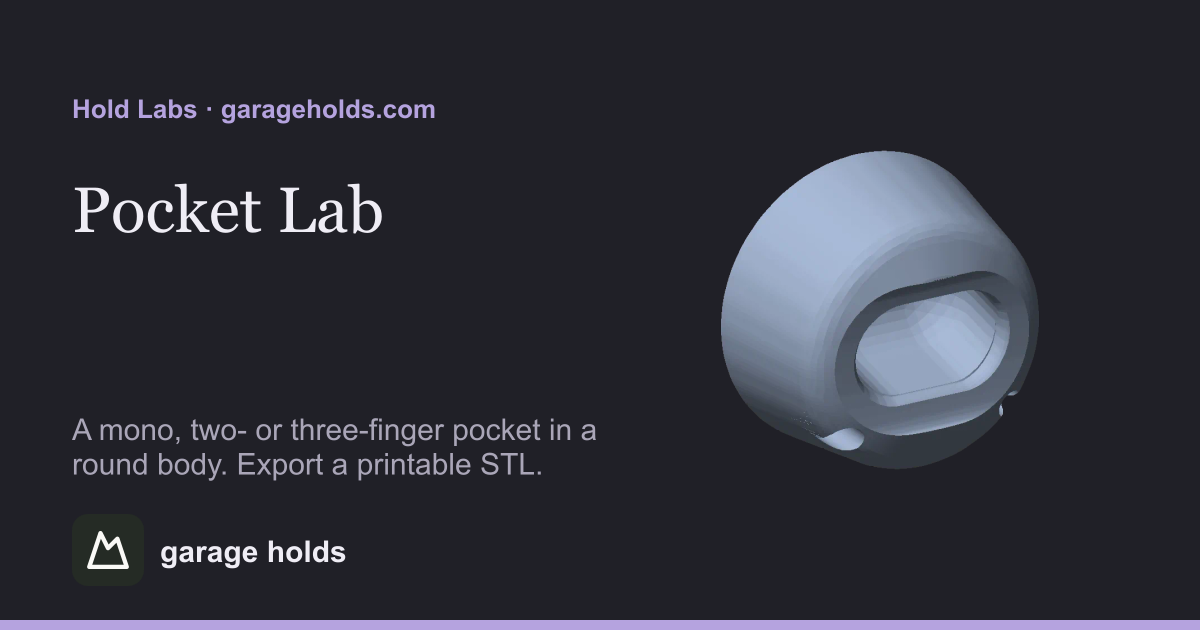
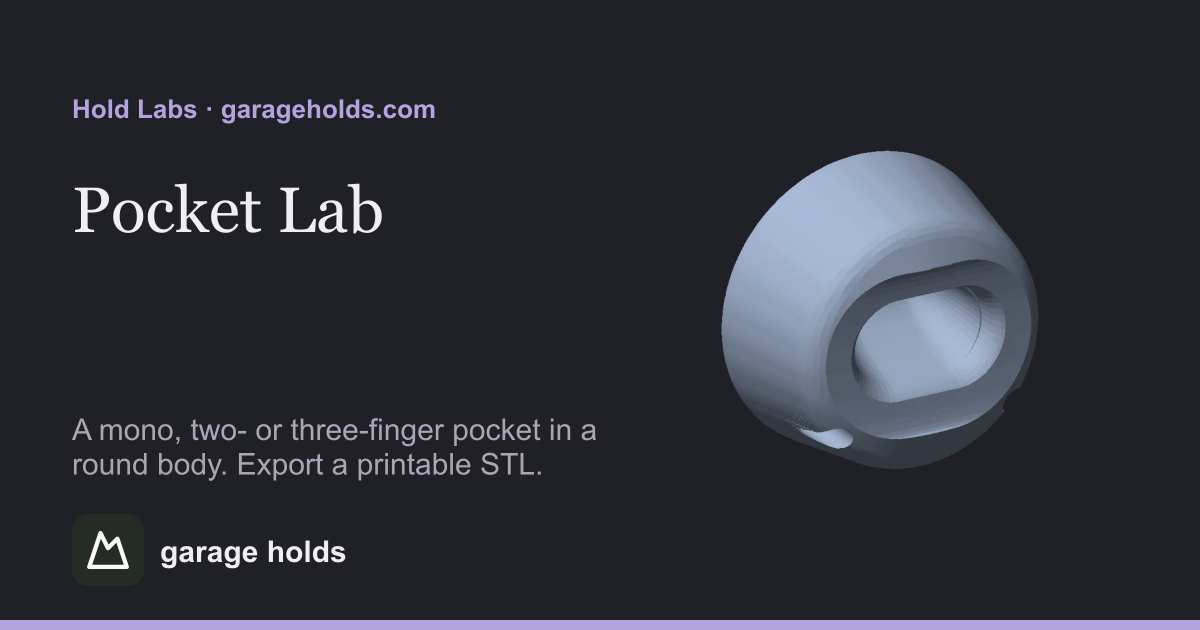
Pocket Lab: a scooped cavity, a lip built from the mouth, three screws on three fingers (RIL-61)
Riley's second test, with a drawing: the pocket's section should be a
smooth C, not a straight tunnel with a rounded end, the lip was still
sharp with a crease on its upper edge, and a three-finger pocket wants
three screws.

The cavity is now a rounded scoop: the stadium mouth narrows along a half
ellipse to a line at full depth, so the roof sweeps into the floor in one
curve (a pocket open to the wall stays a straight prism). The lip is built
from the one mouth outline, with every ring point moved to where the
tilted wall really is at its own height and drawn in by the scoop's
narrowing, read off the real surface; the crease came from rings sliced
at one height per ring while the surface fell away under them. The fit
check now uses the cutter's own section and shadow instead of formulas
for the old slot.

Lip rounding defaults to 12 mm (range 2–20) and the bodies grow to hold
it: 92 mm default, 76 mono, 120 × 92 three-finger with a third screw
below the pocket, 100 slopey, 124 × 74 rail.

Changed region(s): [[0.6783, 0.3921, 0.8325, 0.6032], [0.6475, 0.6333, 0.8017, 0.7238], [0.7708, 0.5127, 0.8633, 0.6333]]

diff --git a/tools/pocket-generator/geometry.py b/tools/pocket-generator/geometry.py
@@ -35,9 +35,11 @@ from tools.hold_mounting import (
 # strength ratings.
 FLOOR = 6.0
 MARGIN = 6.0
+# Odd arc counts put a vertex on each axis, so a mouth measures exactly
+# what was asked for across and up.
 QUALITY = {
-    "preview": dict(sphere=16, ring=72, arc=12, slabs=8),
-    "export": dict(sphere=32, ring=144, arc=24, slabs=12),
+    "preview": dict(sphere=16, ring=72, arc=13, slabs=8, scoop=10),
+    "export": dict(sphere=32, ring=144, arc=25, slabs=12, scoop=20),
 }
 LIMITS = {control["key"]: (control["min"], control["max"]) for control in CONTROLS}
 
@@ -158,10 +160,22 @@ def body(p, quality):
     return solid, s
 
 
+def scoop_inset(p, drop):
+    """How far the scoop's wall has moved in from the mouth outline at a
+    depth below the face: nothing for a pocket open to the wall, else the
+    half-ellipse that takes the stadium down to a line at full depth."""
+    if p.through or drop <= 0:
+        return 0.0
+    rr = min(p.opening_width, p.opening_height) / 2
+    return rr * (1 - math.sqrt(max(0.0, 1 - (drop / p.pocket_depth) ** 2)))
+
+
 def slot(p, depth, quality):
     """The pocket cavity, tilted by the floor angle about the mouth's centre
-    on the face plane: a stadium prism with a rounded bottom, or one that
-    runs on through the back when the pocket opens to the wall."""
+    on the face plane: a rounded scoop whose section is a half ellipse, the
+    stadium mouth narrowing to a line at full depth so the roof sweeps into
+    the floor in one curve, or a straight stadium prism on through the back
+    when the pocket opens to the wall."""
     q = QUALITY[quality]
     width, height = p.opening_width, p.opening_height
     rr = min(width, height) / 2
@@ -171,14 +185,13 @@ def slot(p, depth, quality):
         far = np.column_stack((outline, np.full(len(outline), -depth - 80)))
         cut = manifold.Manifold.hull_points(np.vstack((mouth, far)))
     else:
-        sphere = sphere_points(rr, q["sphere"])
-        ends = (
-            [(sx * (width / 2 - rr), 0) for sx in (-1, 1)]
-            if width >= height
-            else [(0, sy * (height / 2 - rr)) for sy in (-1, 1)]
-        )
-        deep = [sphere + (x, y, depth - p.pocket_depth + rr) for x, y in ends]
-        cut = manifold.Manifold.hull_points(np.vstack(deep + [mouth]))
+        rings = [mouth, np.column_stack((outline, np.full(len(outline), depth)))]
+        for psi in np.linspace(0, math.pi / 2, q["scoop"] + 1)[1:]:
+            inset = min(rr - 0.05, rr * (1 - math.cos(psi)))
+            ring = stadium(width - 2 * inset, height - 2 * inset, q["arc"])
+            z = depth - p.pocket_depth * math.sin(psi)
+            rings.append(np.column_stack((ring, np.full(len(ring), z))))
+        cut = manifold.Manifold.hull_points(np.vstack(rings))
     return (
         cut.translate((0, 0, -depth))
         .rotate((p.floor_angle, 0, 0))
@@ -203,22 +216,44 @@ def trumpet(p, solid, cut, depth, quality):
     convex, and their union leaves a rounded edge on the body."""
     q = QUALITY[quality]
     lip = min(p.lip_radius, lip_limit(p))
-    # Each ring starts from the tilted slot's own section at its height, so
-    # the fillet leaves the cavity wall tangentially wherever the floor
-    # angle has moved that wall; stacking one mouth outline straight down
-    # left a ridge where the two crossed.
+    rise = math.tan(math.radians(p.floor_angle))
+    # Every ring grows from the one mouth outline, where the tilted cavity
+    # meets the face plane. Below the face the wall is not where the mouth
+    # is: the floor angle moves it up the wall in proportion to the depth,
+    # and the scoop draws it in a little. Each ring point gets both
+    # corrections at its own height, read off the real surface, so the
+    # fillet leaves the wall tangentially all round and no ridge forms
+    # where a straight stack would have crossed the tilted wall.
     face = float(surface_height(solid, np.array([[0.0, 0.0]]), depth)[0])
+    mouth = largest(cut.slice(face))
+    # Each ring is the mouth polygon pushed along its own vertex normals, so
+    # every ring point keeps the mouth point it grew from. The outward
+    # normal is to the right of an anticlockwise outline; flip for the
+    # other winding.
+    edges = np.roll(mouth, -1, axis=0) - mouth
+    edge_normals = np.column_stack((edges[:, 1], -edges[:, 0]))
+    edge_normals /= np.linalg.norm(edge_normals, axis=1)[:, None]
+    normals = edge_normals + np.roll(edge_normals, 1, axis=0)
+    normals /= np.linalg.norm(normals, axis=1)[:, None]
+    if (
+        np.sum(
+            mouth[:, 0] * np.roll(mouth[:, 1], -1)
+            - np.roll(mouth[:, 0], -1) * mouth[:, 1]
+        )
+        < 0
+    ):
+        normals = -normals
+    # How far the face has fallen below the apex plane at each mouth point:
+    # the wall meets the surface that much lower there, so it has moved
+    # that much further up the wall by the time it reaches the face.
+    deficit = face - surface_height(solid, mouth, depth)
     rings = []
     for i in range(q["slabs"] + 1):
         a = math.pi / 2 * i / q["slabs"]
         grow, drop = lip * (1 - math.cos(a)), lip * (1 - math.sin(a))
-        section = cut.slice(face - drop)
-        outline = largest(
-            section.offset(grow, manifold.JoinType.Round, 2.0, 32) if grow else section
-        )
-        rings.append(
-            np.column_stack((outline, surface_height(solid, outline, depth) - drop))
-        )
+        xy = mouth + normals * (grow - scoop_inset(p, drop))
+        xy[:, 1] += (deficit + drop) * rise
+        rings.append(np.column_stack((xy, surface_height(solid, xy, depth) - drop)))
     pieces = [
         manifold.Manifold.hull_points(np.vstack((rings[i], rings[i + 1])))
         for i in range(q["slabs"])
@@ -262,8 +297,6 @@ def fit_pocket(requested):
     Growth stops at the sliders' maximums; past that the opening shrinks."""
     p = requested
     scale = p.size / 100
-    angle = math.radians(p.floor_angle)
-    rr = min(p.opening_width, p.opening_height) / 2
     if not p.through:
         # How far below the face plane the tilted cutter reaches, measured
         # on the cutter itself: a tall opening dips further than a wide one.
@@ -281,34 +314,19 @@ def fit_pocket(requested):
         p = replace(p, depth=float(depth))
     for _ in range(400):
         s = shell(p, 72)
-        rise = math.tan(angle)
-        mouth = manifold.CrossSection(
-            [stadium(p.opening_width, p.opening_height / math.cos(angle), 12).tolist()]
-        )
+        # The cutter itself, with the face plane at z=0 and only the part
+        # inside the body kept: its section at the face is the mouth, its
+        # shadow is everything the cavity needs below the face.
+        cut = slot(p, 0.0, "preview").trim_by_plane((0, 0, 1), -s["depth"])
+        mouth = cut.slice(0.0)
+        lip = min(p.lip_radius, lip_limit(p))
         checks = [
+            (mouth.offset(lip + MARGIN, manifold.JoinType.Round, 2.0, 16), s["front"]),
             (
-                mouth.offset(p.lip_radius + MARGIN, manifold.JoinType.Round, 2.0, 16),
-                s["front"],
-            )
+                cut.project().offset(MARGIN, manifold.JoinType.Round, 2.0, 16),
+                s["back"] if p.through else s["front"],
+            ),
         ]
-        if p.through:
-            exit_ = mouth.translate((0, s["depth"] * rise))
-            checks.append(
-                (exit_.offset(MARGIN, manifold.JoinType.Round, 2.0, 16), s["back"])
-            )
-        else:
-            # The rounded bottom's shadow: its end spheres project at full
-            # size wherever the axis points, only shifted up or down the
-            # wall; a tall opening's straight run foreshortens between them.
-            width, height = p.opening_width, p.opening_height
-            if height > width:
-                height = width + (height - width) * math.cos(angle)
-            deep = manifold.CrossSection(
-                [stadium(width, height, 12).tolist()]
-            ).translate((0, (p.pocket_depth - rr) * math.sin(angle)))
-            checks.append(
-                (deep.offset(MARGIN, manifold.JoinType.Round, 2.0, 16), s["front"])
-            )
         worst = None
         for region, within in checks:
             points = largest(region)

diff --git a/tools/pocket-generator/parameters.py b/tools/pocket-generator/parameters.py
@@ -12,12 +12,12 @@ class Parameters:
     opening_height: float = 28
     pocket_depth: float = 40
     floor_angle: float = 10
-    lip_radius: float = 8
+    lip_radius: float = 12
     through: bool = False
     # The body, before overall scale.
     size: float = 100
-    width: float = 85
-    height: float = 85
+    width: float = 92
+    height: float = 92
     depth: float = 50
     roundness: float = 100
     edge_rounding: float = 10
@@ -98,7 +98,7 @@ CONTROLS = [
         "Lip rounding",
         "Grip",
         2,
-        15,
+        20,
         0.5,
         "mm",
         "Rounds the mouth where your fingers rest. A bigger radius is kinder on the skin and needs more body around the opening.",
@@ -274,8 +274,8 @@ PRESETS = {
         opening_height=26,
         pocket_depth=36,
         floor_angle=15,
-        width=70,
-        height=70,
+        width=76,
+        height=76,
         depth=46,
     ),
     "Three-finger pocket": replace(
@@ -284,9 +284,10 @@ PRESETS = {
         opening_height=30,
         pocket_depth=40,
         floor_angle=8,
-        width=110,
-        height=85,
+        width=120,
+        height=92,
         depth=50,
+        screw_count=3,
     ),
     "Deep two-finger": replace(BASE, pocket_depth=52, floor_angle=12, depth=62),
     "Slopey pocket": replace(
@@ -294,17 +295,17 @@ PRESETS = {
         opening_height=30,
         pocket_depth=26,
         floor_angle=-12,
-        lip_radius=10,
+        lip_radius=13,
         crown=25,
-        width=88,
-        height=88,
+        width=100,
+        height=100,
         depth=42,
     ),
     "Pocket rail": replace(
         BASE,
         roundness=25,
-        width=120,
-        height=70,
+        width=124,
+        height=74,
         depth=42,
         opening_height=26,
         pocket_depth=30,

diff --git a/tools/pocket-generator/README.md b/tools/pocket-generator/README.md
@@ -18,11 +18,14 @@ check are the shared ones in `tools/hold_mounting.py`.
 The body is a puck: the hull of spheres along the inset footprint at the
 wall and along a smaller ring at the rim, with rings rising to a crown. The
 footprint is a superellipse (a circle or oval at full roundness, squarer
-below) with a seeded wobble. The pocket is a stadium slot pushed in along an
-axis tilted by the floor angle, with a rounded bottom, or a straight prism
-through the back when it opens to the wall. The lip rounding is part of the
-cutter: rings grown from the mouth along a quarter circle, draped onto the
-face by ray cast, so the body keeps a genuinely rounded edge.
+below) with a seeded wobble. The pocket is a rounded scoop pushed in along
+an axis tilted by the floor angle: a stadium mouth whose section is a half
+ellipse, narrowing to a line at full depth so the roof sweeps into the floor
+in one curve, or a straight stadium prism through the back when it opens to
+the wall. The lip rounding is part of the cutter: rings grown from the mouth
+along a quarter circle, each point moved to where the tilted wall really is
+at its own height and draped onto the face by ray cast, so the body keeps a
+genuinely rounded edge that leaves the cavity tangentially.
 
 The body grows before anything is built: deeper for a 6 mm floor behind a
 closed pocket, wider or taller for 6 mm of face around the mouth and its lip,
